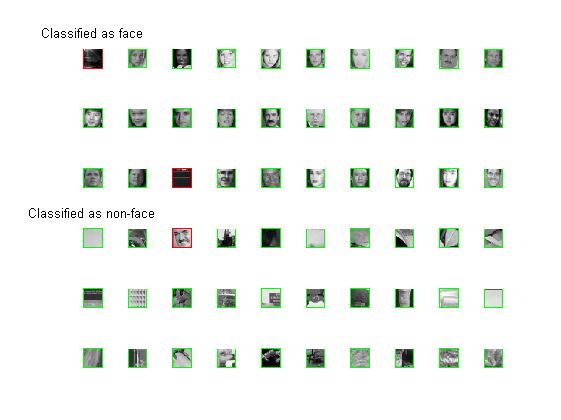
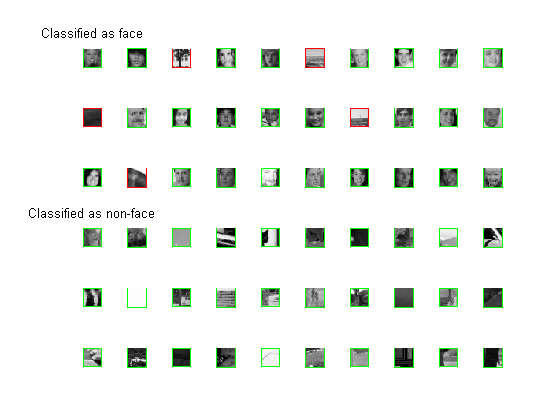
tried out some lambdas...

diff --git a/hw3_code/hw3.m b/hw3_code/hw3.m
@@ -70,7 +70,7 @@ run([VLFEAT_FOLDER  '/toolbox/vl_setup']);
 
 tic;
 % ToDo: SVM training code
-[W,B] = vl_svmtrain(DataTrain',LabelsTrain',1);
+[W,B] = vl_svmtrain(DataTrain',LabelsTrain',1.2);
 toc;
 %keyboard
 %%
